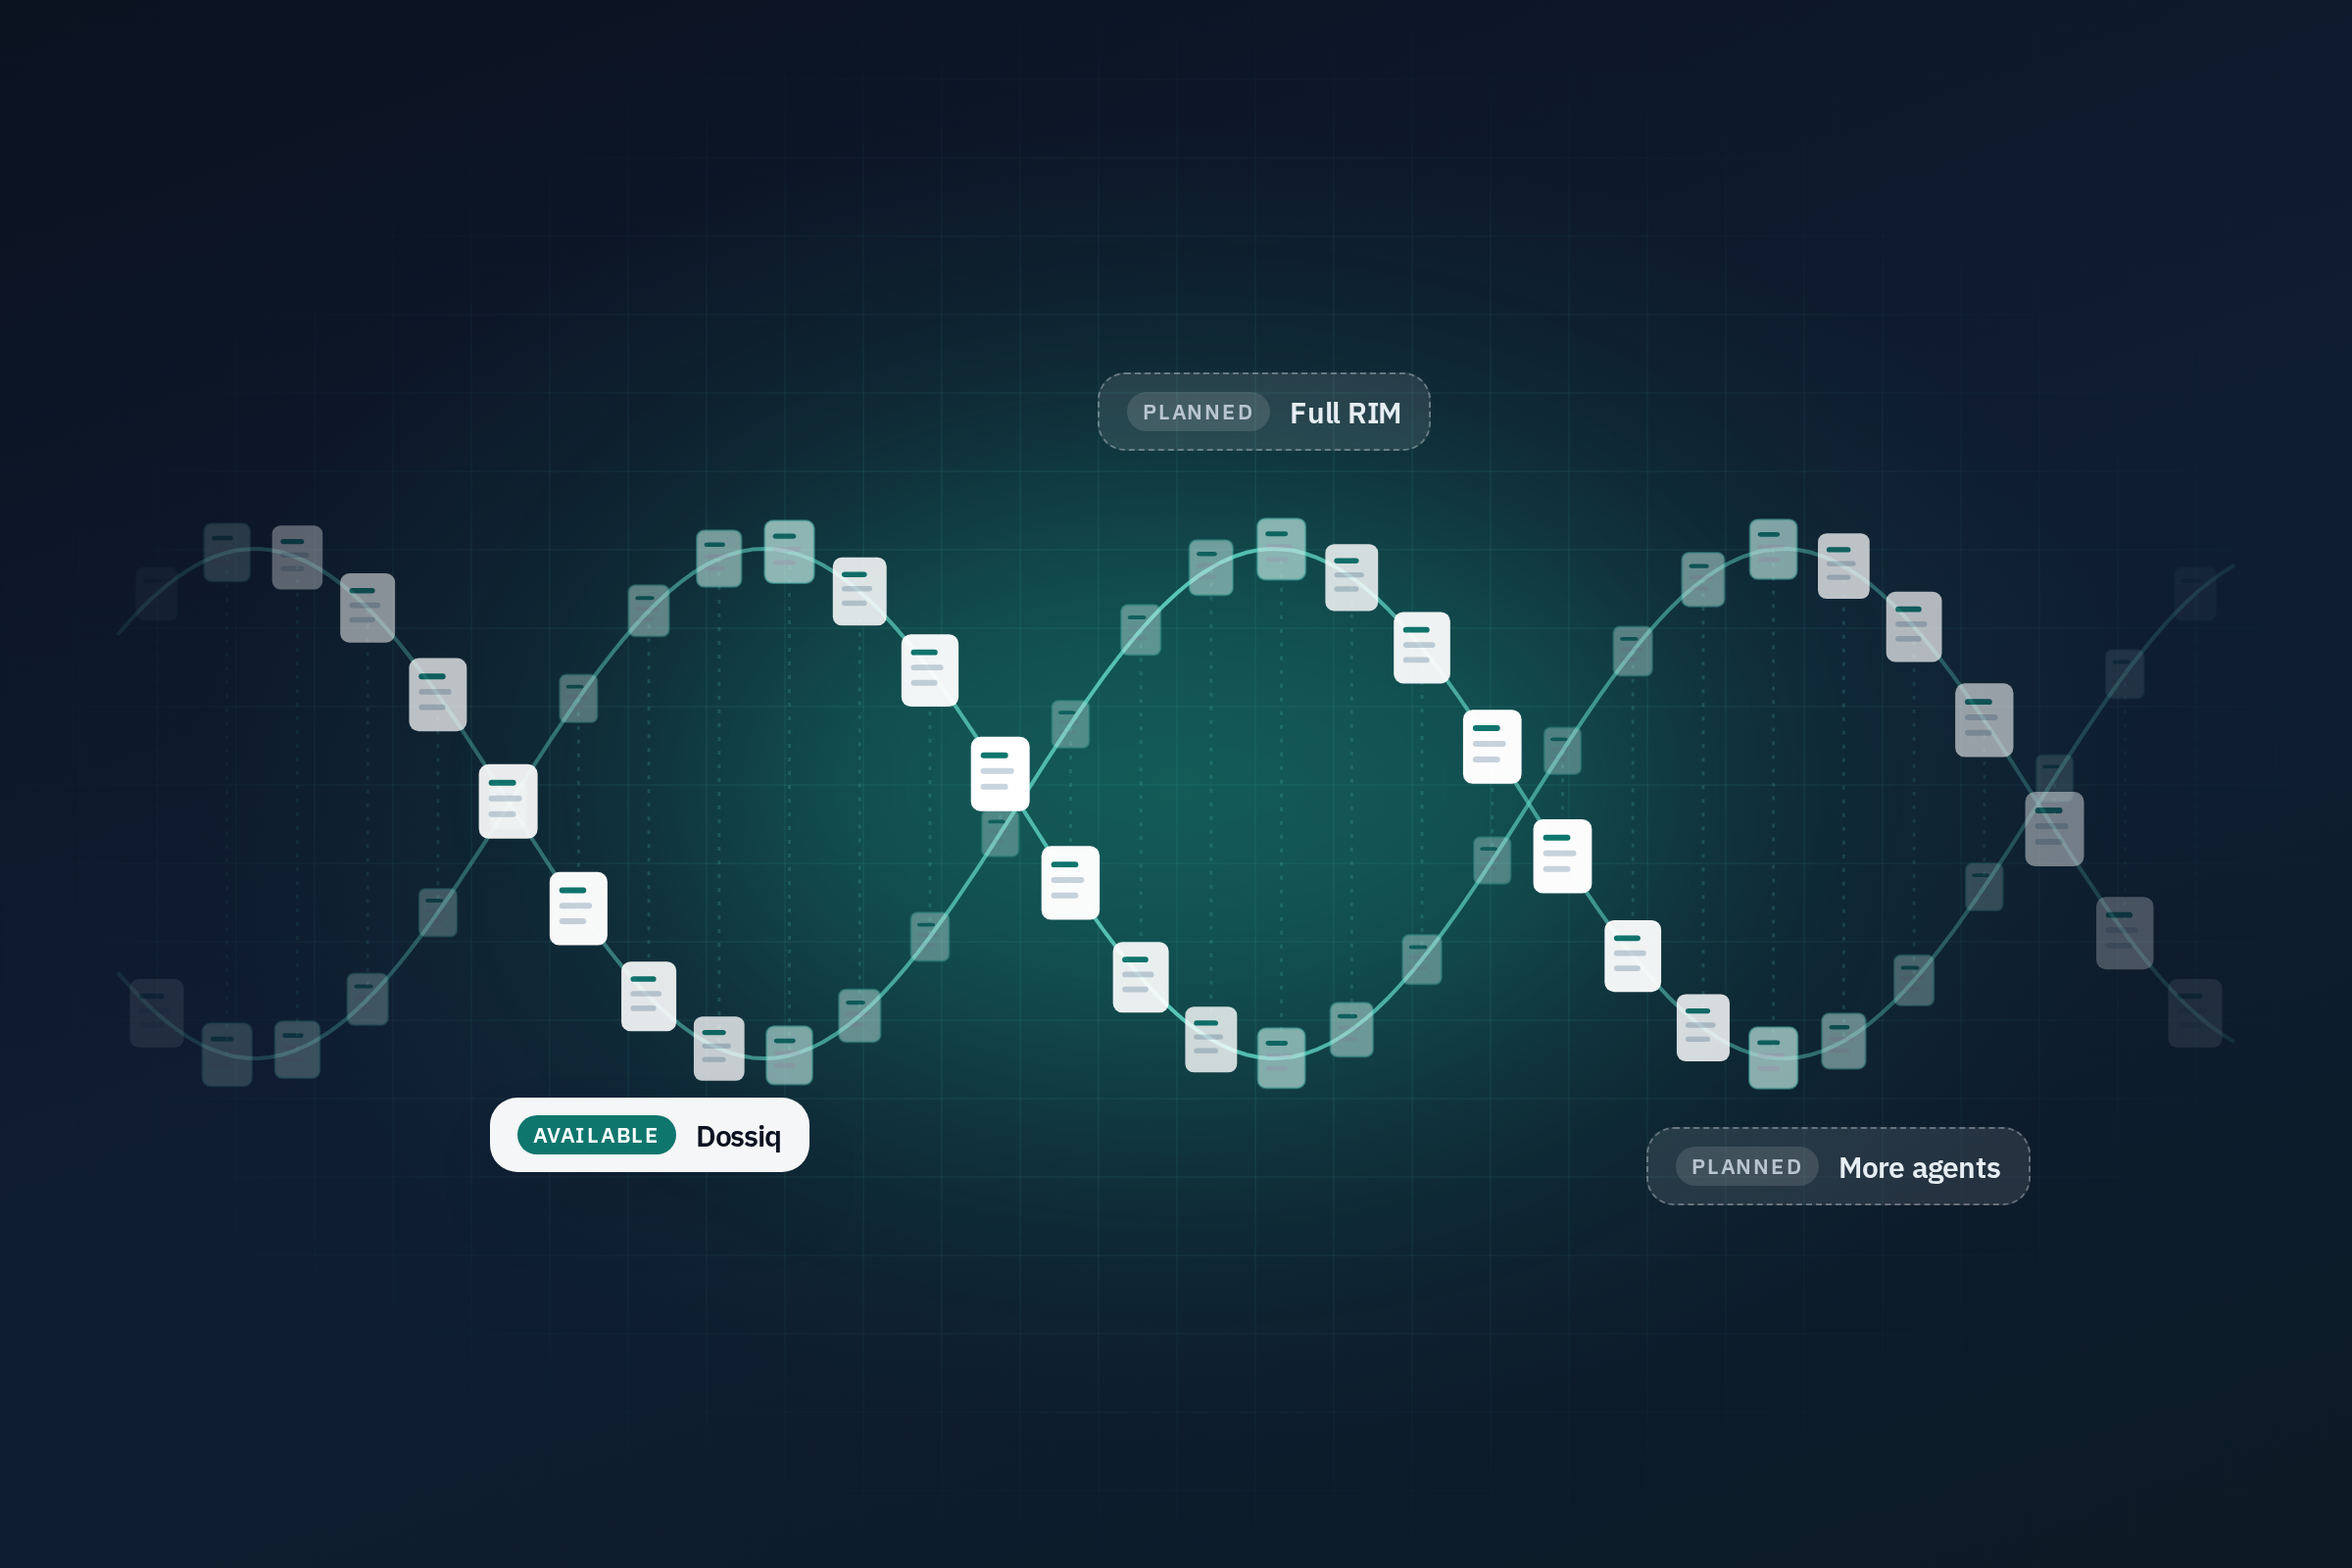
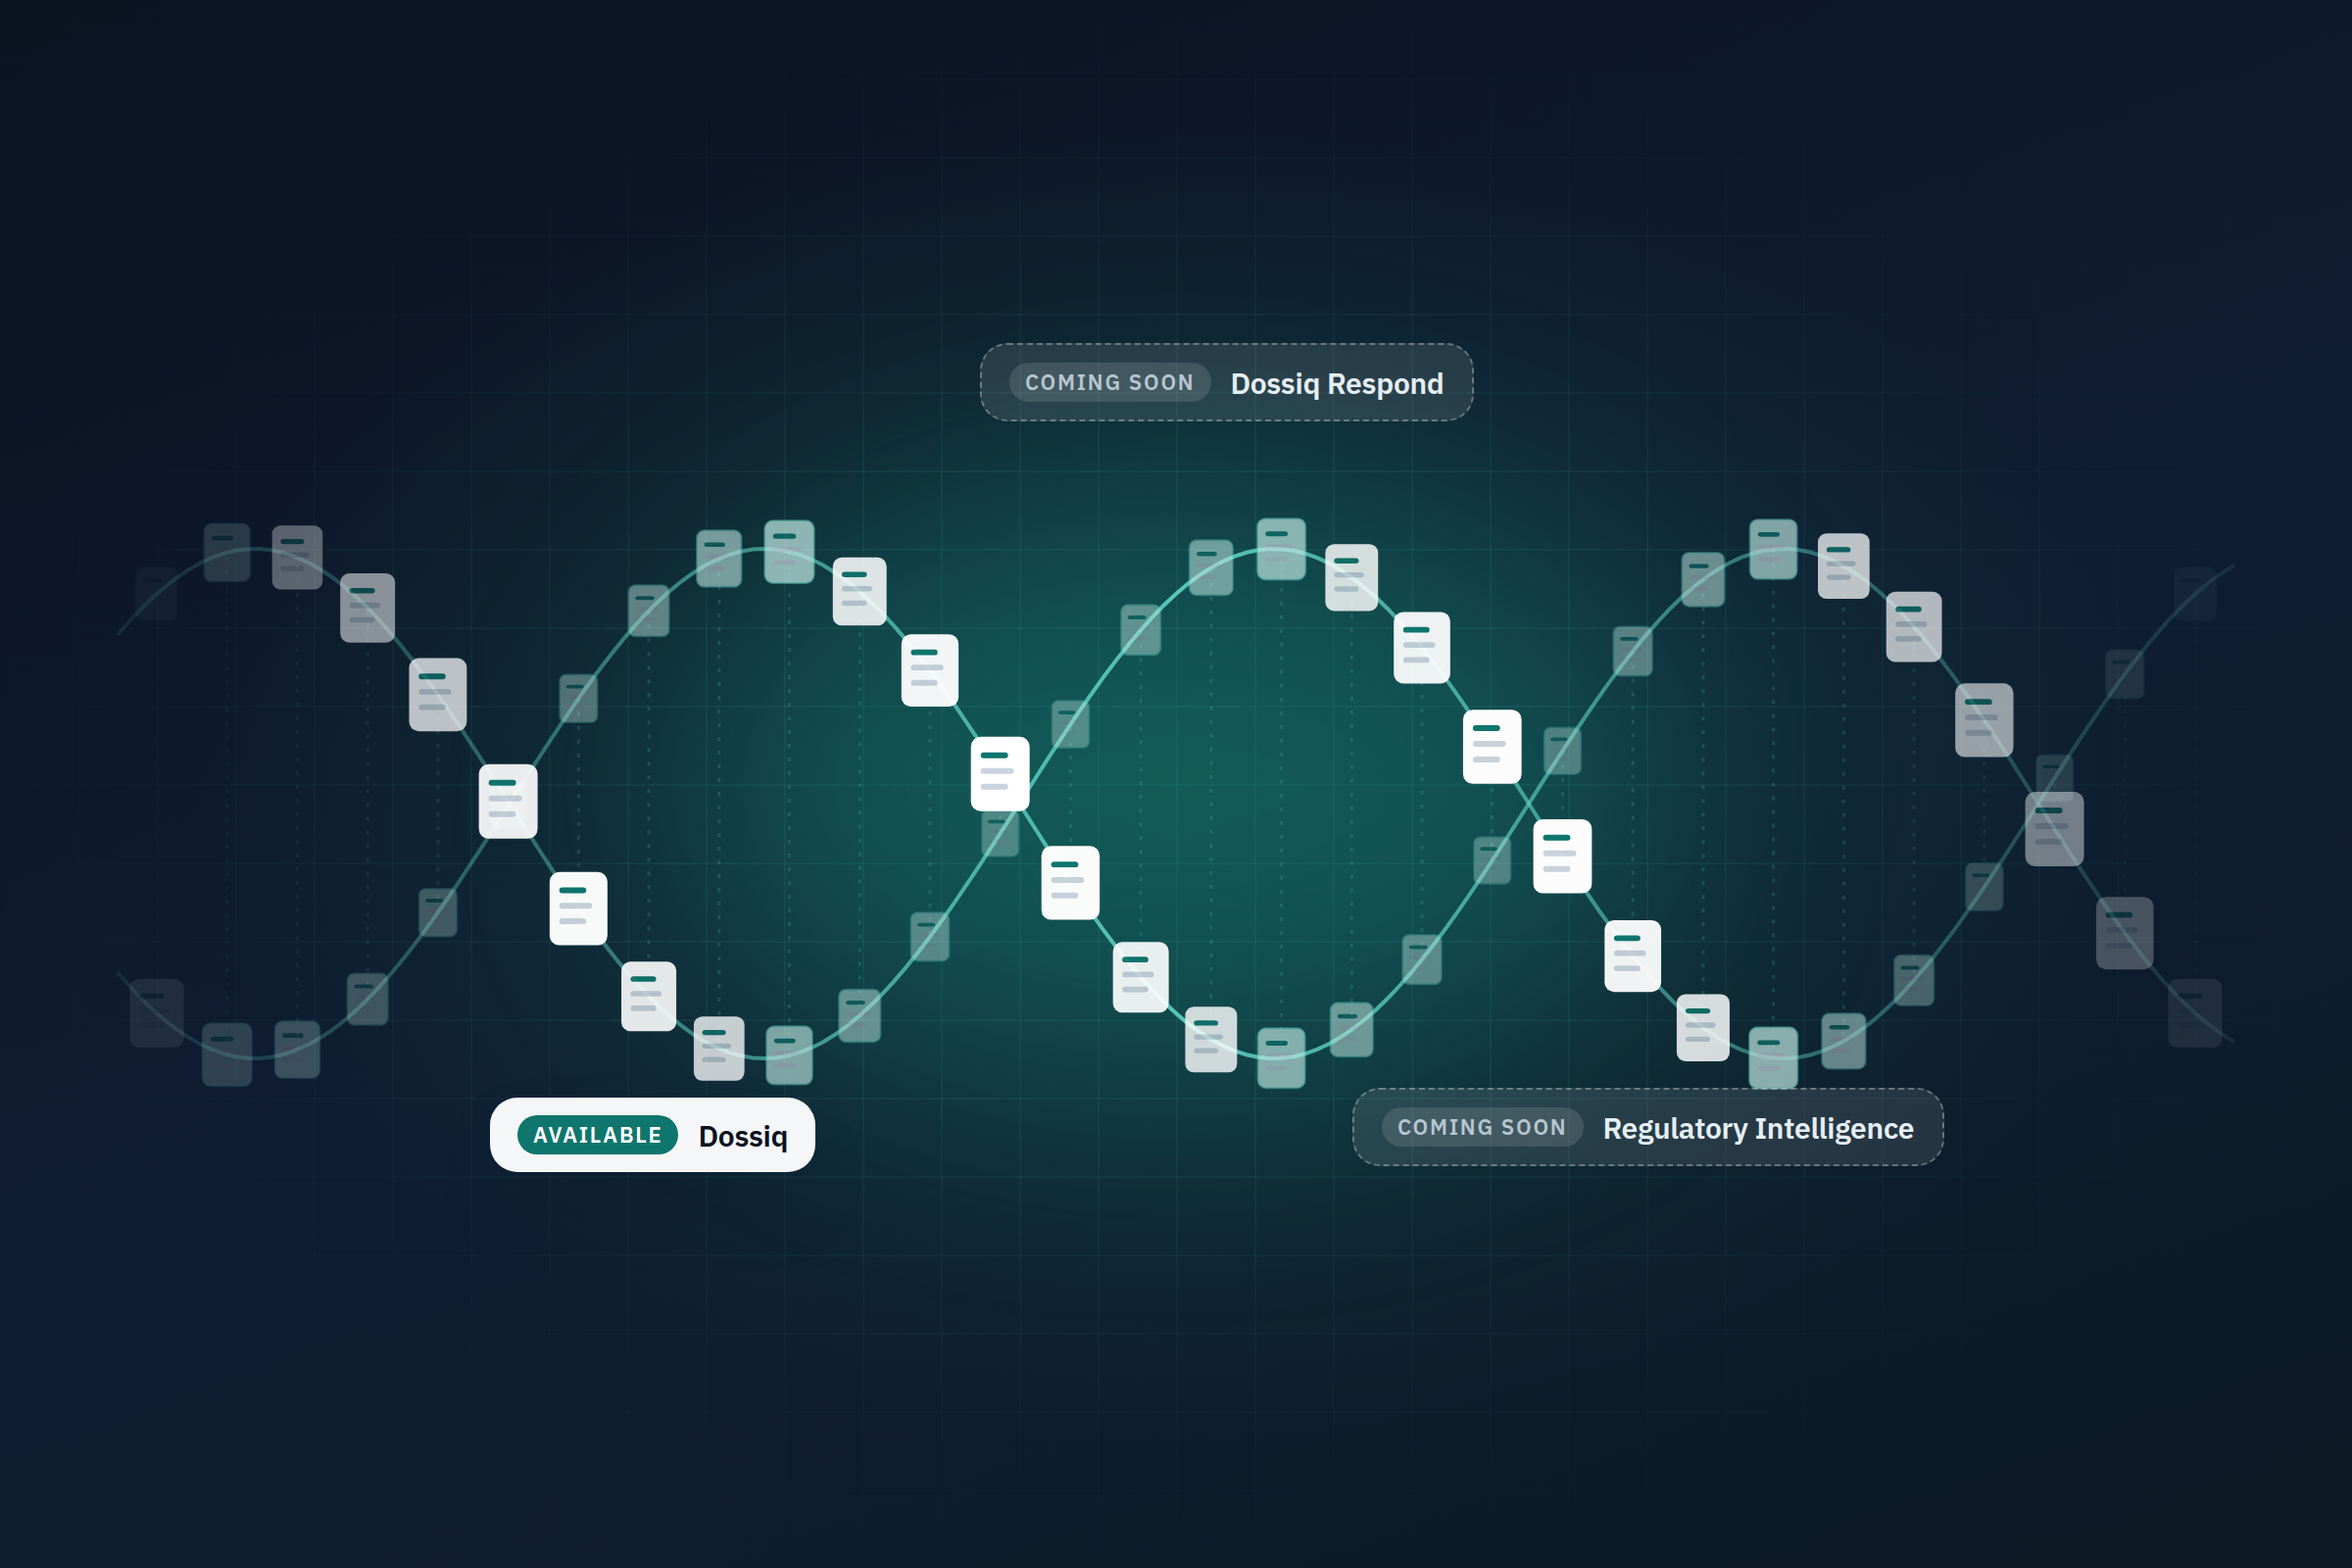
Replace planned Full RIM with the two coming-soon agents.
Dossiq Respond and Regulatory Intelligence take the Full RIM slot across the site, with capability lists on the Products cards and no dates or certification claims.

Changed region(s): [[0.5938, 0.6875, 0.8438, 0.7812], [0.4062, 0.2188, 0.625, 0.2812], [0.2188, 0.7188, 0.3438, 0.75]]

diff --git a/src/data/site.ts b/src/data/site.ts
@@ -24,7 +24,9 @@ export const nav: NavItem[] = [
       { href: u('/products/'), label: 'All products', note: 'What Rauzr builds, now and next', depth: 0 },
       { href: u('/products/helix/'), label: 'Rauzr Helix', note: 'Agent platform for health and life sciences', depth: 0 },
       { href: u('/products/helix/dossiq/'), label: 'Dossiq', note: 'First Helix agent · regulatory affairs', depth: 1, status: 'Available' },
-      { href: u('/products/helix/#roadmap'), label: 'Full RIM and more agents', note: 'Planned · coming later', depth: 1, status: 'Planned' },
+      { href: u('/products/#dossiq-respond'), label: 'Dossiq Respond', note: 'Coming soon · deficiency responses', depth: 1, status: 'Coming soon' },
+      { href: u('/products/#regulatory-intelligence'), label: 'Regulatory Intelligence', note: 'Coming soon · guidance and impact', depth: 1, status: 'Coming soon' },
+      { href: u('/products/helix/#roadmap'), label: 'More Helix agents', note: 'Planned · coming later', depth: 1, status: 'Planned' },
     ],
   },
   { href: u('/approach/'), label: 'How it works' },

diff --git a/visuals-src/helix.html b/visuals-src/helix.html
@@ -15,8 +15,8 @@
 <div class="glow" style="left:350px;top:250px;width:500px;height:300px;background:rgba(20,163,151,.28)"></div>
 <svg id="s" style="position:absolute;inset:0" viewBox="0 0 1200 800"></svg>
 <div class="tag now" style="left:250px;top:560px"><small>Available</small>Dossiq</div>
-<div class="tag plan" style="left:560px;top:190px"><small>Planned</small>Full RIM</div>
-<div class="tag plan" style="left:840px;top:575px"><small>Planned</small>More agents</div>
+<div class="tag plan" style="left:500px;top:175px"><small>Coming soon</small>Dossiq Respond</div>
+<div class="tag plan" style="left:690px;top:555px"><small>Coming soon</small>Regulatory Intelligence</div>
 <script>
 const s = document.getElementById('s'); const NS = 'http://www.w3.org/2000/svg';
 const el = (t, a, p = s) => { const e = document.createElementNS(NS, t); for (const k in a) e.setAttribute(k, a[k]); p.appendChild(e); return e; };

diff --git a/src/styles/global.css b/src/styles/global.css
@@ -989,7 +989,7 @@ h3 {
 
 @media (min-width: 860px) {
   .roadmap {
-    grid-template-columns: repeat(3, 1fr);
+    grid-template-columns: repeat(2, 1fr);
     gap: 1.4rem;
   }
 }
@@ -2231,6 +2231,15 @@ h3 {
 .upcoming-card p:not(.road-status) {
   font-size: 1.02rem;
   line-height: 1.6;
+}
+
+.upcoming-card .ticks {
+  margin: 0.95rem 0 0;
+  font-size: 0.98rem;
+}
+
+.upcoming-card .ticks li {
+  margin: 0.38rem 0;
 }
 
 /* ---------- v3: principles ---------- */

diff --git a/AGENTS.md b/AGENTS.md
@@ -1,6 +1,6 @@
 # Rauzr marketing site
 
-Static Astro site for https://rauzr.ai. Keep the teal brand (`#0F766E`), IBM Plex Sans, and Dossiq messaging. Do not add customer logos, invented metrics, FDA-approval claims, or any statement that the product files with a regulatory agency. Contact is contact@rauzr.ai. This is the company site for all Rauzr products (audience: health and life sciences teams; do not list countries or regions): Rauzr is the company, Rauzr Helix is the product/platform for health and life sciences, Dossiq is the first Helix agent. Keep Dossiq minimal on the home page; Dossiq content lives at /products/helix/dossiq/ (/product/ redirects there). Roadmap items (e.g. Full RIM) are labeled planned, with no dates. No certification claims (SOC 2, ISO, Part 11 compliance). Third-party names (e.g. Veeva Vault, SharePoint) as text only, integrations marked planned; never name competitors as comparisons. The "~20 days vs a few hours" speed figure is phrased as what Dossiq is built to do, with its footnote. Visuals are generated from visuals-src/*.html (see visuals-src/render.mjs) into src/assets/visuals/ and public/og.png.
+Static Astro site for https://rauzr.ai. Keep the teal brand (`#0F766E`), IBM Plex Sans, and Dossiq messaging. Do not add customer logos, invented metrics, FDA-approval claims, or any statement that the product files with a regulatory agency. Contact is contact@rauzr.ai. This is the company site for all Rauzr products (audience: health and life sciences teams; do not list countries or regions): Rauzr is the company, Rauzr Helix is the product/platform for health and life sciences, Dossiq is the first Helix agent. Keep Dossiq minimal on the home page; Dossiq content lives at /products/helix/dossiq/ (/product/ redirects there). Roadmap items are labeled planned or coming soon, with no dates. No certification claims (SOC 2, ISO, Part 11 compliance). Third-party names (e.g. Veeva Vault, SharePoint) as text only, integrations marked planned; never name competitors as comparisons. The "~20 days vs a few hours" speed figure is phrased as what Dossiq is built to do, with its footnote. Visuals are generated from visuals-src/*.html (see visuals-src/render.mjs) into src/assets/visuals/ and public/og.png.
 
 ## Development
 
